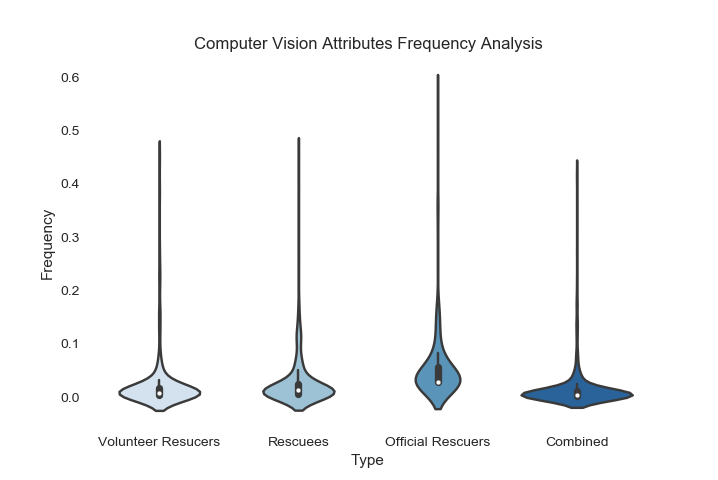
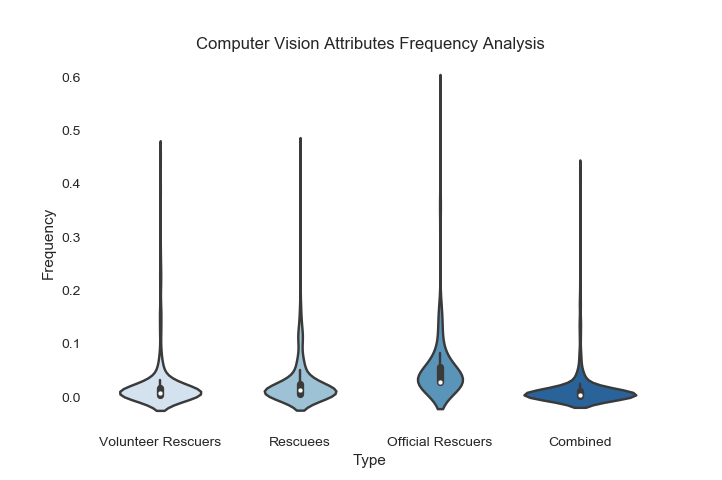
started playing around with cross validation and gridsearchcv

diff --git a/ml.py b/ml.py
@@ -1,7 +1,8 @@
 import json
 from sklearn import svm
-from sklearn.neighbors import NearestNeighbors as nn
+from sklearn.neighbors import KNeighborsClassifier as nn
 from sklearn.naive_bayes import GaussianNB as gnb
+from sklearn.model_selection import cross_val_score, GridSearchCV
 
 # Maps frequent attribute to an index
 fmap = {}
@@ -27,7 +28,7 @@ def aggregate_freq(files):
 		with open('output/' + file + '_attributes.json') as f:
 			data = json.loads(f.read())
 			for d in data:
-				fmap[d] = 0
+				fmap[d['name']] = 0
 
 	# Map attribute to an index for quicker compilation of records later on
 	index = 0
@@ -42,7 +43,7 @@ def iter_results(t, label):
 
 	for d in data:
 		name = d['name']
-		rec = [0] * len(freq)
+		rec = [0] * len(fmap)
 
 		for a in d['attributes']:
 			i = fmap[a]
@@ -69,7 +70,7 @@ def partition_data():
 
 # Creates predictive model using svm algorithm and train_data
 # Returns the accuracy of the model using test_data
-def svm(gamma=0.001, C=100.):
+def my_svm(gamma=0.001, C=100.):
 	clf = svm.SVC(gamma=gamma, C=C)
 	clf.fit(train_data, train_labels)
 	
@@ -82,7 +83,7 @@ def svm(gamma=0.001, C=100.):
 
 # Creates predictive model using naive bayes algorithm and train_data
 # Returns the accuracy of the model using test_data
-def naive_bayes()
+def naive_bayes():
 	g = gnb()
 	g.fit(train_data, train_labels)
 
@@ -104,3 +105,43 @@ def nearest_neighbors(n_neighbors, algorithm='auto'):
 			correct += 1
 	accuracy = float(correct) / len(test_labels)
 	return accuracy
+
+# aggregate_freq(['vr', 'r', 'or'])
+# iter_results('vr', VR)
+# iter_results('r',  R)
+# iter_results('or', OR)
+
+# g = gnb()
+for i in range(1,20):
+	nbrs = nn(n_neighbors=i)
+	# g.fit(records, labels)
+	clf = svm.SVC()
+	scores = cross_val_score(nbrs, records, labels, cv=5)
+	print(scores)
+	print('average accuracy: ' + str(scores.mean()) + '\n')
+
+# Nearest Neighbor
+nbrs = nn()
+parameters = {'n_neighbors':[x for x in range(1,10)], 
+			  'weights':['uniform', 'distance'], 
+			  'algorithm':['auto', 'ball_tree', 'kd_tree', 'brute'], 
+			  'leaf_size':[x for x in range(25,36)], 
+			  'p':[1,2]}
+parameters = {'n_neighbors':[x for x in range(1,20)]}
+clf = GridSearchCV(nbrs, parameters, cv=5)
+
+# SVM
+# svc = svm.SVC()
+# parameters = {'C':[1.1 - 0.01*x for x in range(1,20)], 
+# 			  'kernel':['linear', 'poly', 'rbf', 'sigmoid'], 
+# 			  'shrinking':[True, False],
+# 			  'probability':[True, False]}
+# clf = GridSearchCV(svc, parameters, cv=5)
+# clf.fit(records, labels)
+# print(clf.cv_results_['mean_test_score'])
+# print(my_svm())
+# print(clf.best_score_)
+# print(clf.best_params_)
+# print(clf.best_estimator_)
+
+# g.fit(records, labels)

diff --git a/utils/phase_1_graphs.py b/utils/phase_1_graphs.py
@@ -50,7 +50,7 @@ def freq_analysis_violin():
 	allf = {}
 	vf = {}
 	for x in vr:
-		for a in x['picture_attributes']:
+		for a in x['attributes']:
 			if a not in allf:
 				allf[a] = 0
 			if a not in vf:
@@ -60,7 +60,7 @@ def freq_analysis_violin():
 
 	rf = {}
 	for x in r:
-		for a in x['picture_attributes']:
+		for a in x['attributes']:
 			if a not in allf:
 				allf[a] = 0
 			if a not in rf:
@@ -70,7 +70,7 @@ def freq_analysis_violin():
 
 	of = {}
 	for x in o:
-		for a in x['picture_attributes']:
+		for a in x['attributes']:
 			if a not in allf:
 				allf[a] = 0
 			if a not in of:
@@ -94,7 +94,7 @@ def freq_analysis_violin():
 	d = {'Frequency':[], 'Type':[]}
 	for x in vf:
 		d['Frequency'].append(vf[x])
-		d['Type'].append('Volunteer Resucers')
+		d['Type'].append('Volunteer Rescuers')
 
 	for x in rf:
 		d['Frequency'].append(rf[x])
